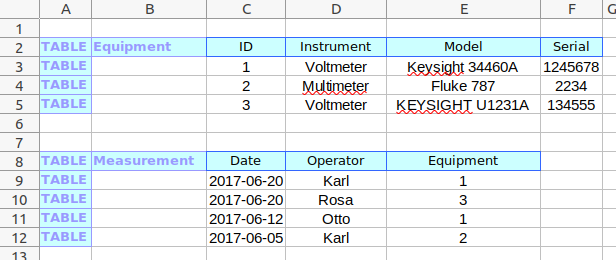
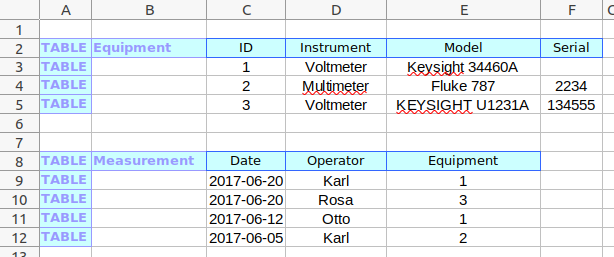
Bugfix empty cells. New: text_not_empty

Changed region(s): [[0.0, 0.0, 1.0, 1.0]]

diff --git a/pyspreadsheet.py b/pyspreadsheet.py
@@ -17,17 +17,19 @@ COLUMN_NAME = 1 # Table name
 COLUMN_FIRST_CULUMN = 2
 
 class Cell:
-    def __init__(self, row, column, pyxl_cell):
+    def __init__(self, row, column, text):
         self._row = row
         self._column = column
-        self._pyxl_cell = pyxl_cell
+        self.text = text
 
     def __str__(self):
         return self.text
 
     @property
-    def text(self):
-        return Cell.get_cell_value(self._pyxl_cell)
+    def text_not_empty(self):
+        if self.text.strip() == '':
+            raise Exception(f'Cell must not be empty! {self.reference}')
+        return self.text
 
     @property
     def int(self):
@@ -53,8 +55,29 @@ class Cell:
             raise ValueError(f'"{t}" is not a valid {_enum.__name__}! Valid values are {valid_values}. See: {self.reference}')
 
     @property
+    def coordinate(self):
+        return self.get_coordinate(self._column._columnidx, self._row._rowidx)
+
+    @property
     def reference(self):
-        return f'Cell "{self._pyxl_cell.coordinate}" in {self._row._table.reference}'
+        return f'Cell "{self.coordinate}" in {self._row._table.reference}'
+
+    @classmethod
+    def get_coordinate(cls, columnidx, rowidx):
+        '''
+        >>> Cell.get_coordinate(0, 0)
+        'A1'
+        >>> Cell.get_coordinate(25, 1)
+        'Z2'
+        >>> Cell.get_coordinate(26, 2)
+        'AA3'
+        '''
+        s = ''
+        while columnidx >= 0:
+            c = columnidx % 26
+            s += chr(c + ord('A'))
+            columnidx -= 26
+        return s + str(rowidx+1)
 
     @classmethod
     def get_cell(cls, pyxl_row, columnidx):
@@ -81,7 +104,8 @@ class Row:
         self._cells = []
         for column in table.columns:
             cell = Cell.get_cell(pyxl_row, column._columnidx)
-            self._cells.append(Cell(self, column, cell))
+            text = Cell.get_cell_value(cell)
+            self._cells.append(Cell(self, column, text))
 
         for cell in self._cells:
             setattr(self, f'{self.PREFIX}{cell._column.name}', cell)
@@ -235,3 +259,7 @@ class ExcelReader:
 
         for table_name in self.table_names:
             self[table_name].dump(file)
+
+if __name__ == '__main__':
+    import doctest
+    doctest.testmod()

diff --git a/pyspreadsheet_test.py b/pyspreadsheet_test.py
@@ -132,6 +132,20 @@ def doctest_cell_enumaration():
     ValueError: "1" is not a valid EquipmentType! Valid values are Voltmeter|Multimeter. See: Cell "C3" in Table "Equipment" in Worksheet "Inventory" in File "pyspreadsheet_test.xlsx"
     '''
 
+def doctest_assert_not_empty():
+    '''
+    >>> cell_empty = excel.table_Equipment.rows[0].col_Serial
+    >>> cell_voltmeter = excel.table_Equipment.rows[0].col_Instrument
+
+    >>> cell_empty.text_not_empty
+    Traceback (most recent call last):
+       ...
+    Exception: Cell must not be empty! Cell "F3" in Table "Equipment" in Worksheet "Inventory" in File "pyspreadsheet_test.xlsx"
+    
+    >>> cell_voltmeter.text_not_empty
+    'Voltmeter'
+    '''
+
 if __name__ == '__main__':
     import doctest
     doctest.testmod()
